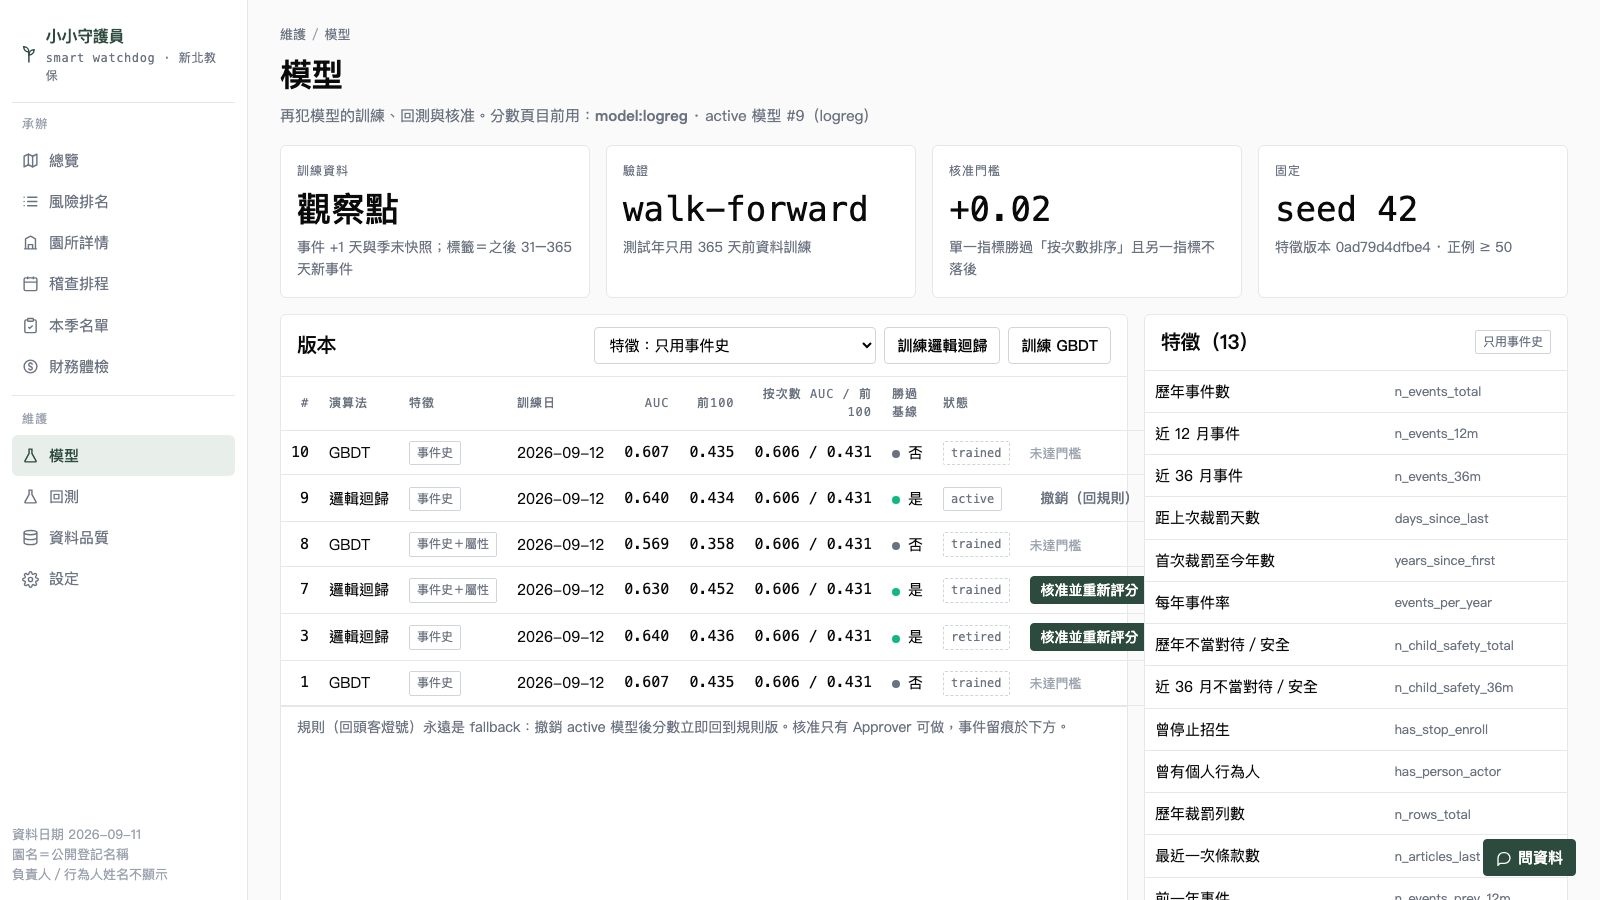
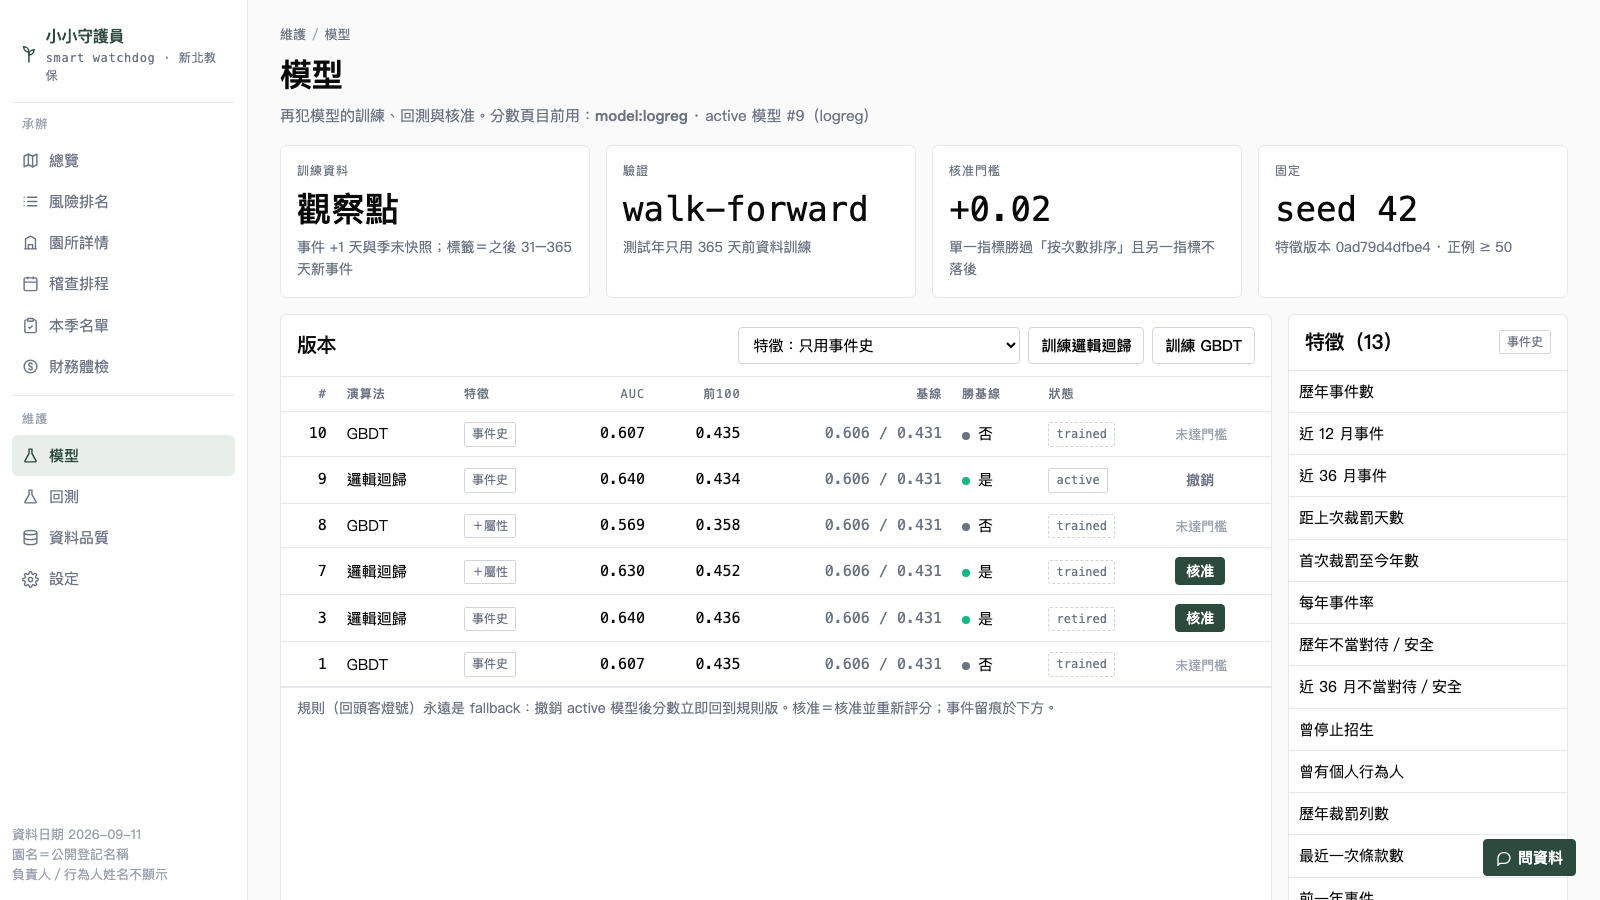
models page: slimmer version table and feature column so actions stay visible
Claude-Session: https://claude.ai/code/session_01VmY1mP5sGNaPQ1rynLjvUR

Changed region(s): [[0.1875, 0.3422, 0.9375, 0.9644], [0.8125, 0.9956, 0.9688, 1.0], [0.7188, 0.9956, 0.7812, 1.0]]

diff --git a/web/index.html b/web/index.html
@@ -373,12 +373,12 @@ S.models = async () => {
   return `
 <div class="crumb">維護<span>/</span>模型</div><h2>模型</h2><p class="sub">再犯模型的訓練、回測與核准。分數頁目前用：<b>${d.current_method === 'rule' ? '規則（回頭客燈號）' : d.current_method}</b>${act ? ` · active 模型 #${act.model_id}（${act.algo}）` : ' · 無 active 模型'}</p>
 <div class="row c4">${kpi('訓練資料', '觀察點', '事件 +1 天與季末快照；標籤＝之後 31–365 天新事件')}${kpi('驗證', 'walk-forward', `測試年只用 ${d.gate.gap_days} 天前資料訓練`)}${kpi('核准門檻', `+${d.gate.margin}`, '單一指標勝過「按次數排序」且另一指標不落後')}${kpi('固定', `seed ${d.gate.seed}`, `特徵版本 ${d.feature_hash} · 正例 ≥ ${d.gate.min_pos}`)}</div>
-<div class="row c21">
+<div class="row" style="grid-template-columns:minmax(0,1fr) 280px">
  <div class="card"><div class="card-h"><h3>版本</h3><div class="tools">${t.running ? `<span class="chip">訓練中：${t.algo} · ${t.feature_set}（${t.started_at.slice(11, 16)} 起）</span>` : `<select class="inp" id="fs"><option value="events">特徵：只用事件史</option><option value="events+attrs">特徵：事件史＋地區／立案別／規模</option></select><button class="btn" onclick="trainModel('logreg')">訓練邏輯迴歸</button><button class="btn" onclick="trainModel('gbdt')">訓練 GBDT</button>`}</div></div>
  ${t.error ? `<div class="errbox">上次訓練失敗：${esc(t.error)}</div>` : ''}${t.result && !t.running ? `<div class="note">上次訓練完成：#${t.result.model_id} ${t.result.algo} AUC ${f3(t.result.auc)} · 前100 ${f3(t.result.top100_cov)} · ${t.result.beats_baseline ? '勝過基線' : '未勝過基線'}</div>` : ''}
- <table><thead><tr><th class="num">#</th><th>演算法</th><th>特徵</th><th>訓練日</th><th class="num">AUC</th><th class="num">前100</th><th class="num">按次數 AUC / 前100</th><th>勝過基線</th><th>狀態</th><th></th></tr></thead><tbody>${d.models.map(m => `<tr><td class="num">${m.model_id}</td><td>${m.algo === 'logreg' ? '邏輯迴歸' : m.algo.toUpperCase()}</td><td><span class="chip">${(m.params.feature_set || 'events') === 'events' ? '事件史' : '事件史＋屬性'}</span></td><td class="mono">${m.trained_at}</td><td class="num">${f3(m.auc)}</td><td class="num">${f3(m.top100_cov)}</td><td class="num">${f3(m.baseline_count_auc)} / ${f3(m.baseline_count_top100)}</td><td>${m.beats_baseline ? '<span class="dot" style="background:var(--ok)"></span>是' : '<span class="dot l"></span>否'}</td><td><span class="chip ${m.status === 'active' ? '' : 'opt'}">${m.status}</span></td><td>${m.status === 'active' ? `<button class="btn ghost" style="padding:3px 10px;font-size:14px" onclick="retireModel(${m.model_id})">撤銷（回規則）</button>` : m.beats_baseline ? `<button class="btn pri" style="padding:3px 10px;font-size:14px" onclick="approveModel(${m.model_id})">核准並重新評分</button>` : '<span style="font-size:13px;color:var(--text-subtle)">未達門檻</span>'}</td></tr>`).join('')}</tbody></table>
- <div class="note">規則（回頭客燈號）永遠是 fallback：撤銷 active 模型後分數立即回到規則版。核准只有 Approver 可做，事件留痕於下方。</div></div>
- <div class="card"><div class="card-h"><h3>特徵（${d.features.length}）</h3><span class="chip">只用事件史</span></div><table><tbody>${d.features.map(f => `<tr><td>${esc(f.zh)}</td><td class="mono" style="font-size:13px;color:var(--text-muted)">${f.key}</td></tr>`).join('')}</tbody></table><div class="note">預設只用事件史，不用負責人、不用園所屬性（立案別、規模、行政區）：避免模型學到「私立園就是高風險」。屬性組（fv2：${d.attr_features.map(f => esc(f.zh)).join('、')}）只供比較，2026-09-12 回測未見改善。</div></div>
+ <div style="overflow-x:auto"><table><thead><tr><th class="num">#</th><th>演算法</th><th>特徵</th><th class="num">AUC</th><th class="num">前100</th><th class="num" title="按次數排序基線的 AUC / 前100">基線</th><th>勝基線</th><th>狀態</th><th></th></tr></thead><tbody>${d.models.map(m => `<tr title="訓練日 ${m.trained_at}"><td class="num">${m.model_id}</td><td>${m.algo === 'logreg' ? '邏輯迴歸' : m.algo.toUpperCase()}</td><td><span class="chip">${(m.params.feature_set || 'events') === 'events' ? '事件史' : '＋屬性'}</span></td><td class="num">${f3(m.auc)}</td><td class="num">${f3(m.top100_cov)}</td><td class="num" style="color:var(--text-muted)">${f3(m.baseline_count_auc)} / ${f3(m.baseline_count_top100)}</td><td>${m.beats_baseline ? '<span class="dot" style="background:var(--ok)"></span>是' : '<span class="dot l"></span>否'}</td><td><span class="chip ${m.status === 'active' ? '' : 'opt'}">${m.status}</span></td><td style="white-space:nowrap">${m.status === 'active' ? `<button class="btn ghost" style="padding:3px 10px;font-size:14px" onclick="retireModel(${m.model_id})">撤銷</button>` : m.beats_baseline ? `<button class="btn pri" style="padding:3px 10px;font-size:14px" onclick="approveModel(${m.model_id})">核准</button>` : '<span style="font-size:13px;color:var(--text-subtle)">未達門檻</span>'}</td></tr>`).join('')}</tbody></table></div>
+ <div class="note">規則（回頭客燈號）永遠是 fallback：撤銷 active 模型後分數立即回到規則版。核准＝核准並重新評分；事件留痕於下方。</div></div>
+ <div class="card"><div class="card-h"><h3>特徵（${d.features.length}）</h3><span class="chip">事件史</span></div><table><tbody>${d.features.map(f => `<tr><td title="${f.key}">${esc(f.zh)}</td></tr>`).join('')}</tbody></table><div class="note">預設只用事件史，不用負責人、不用園所屬性（立案別、規模、行政區）：避免模型學到「私立園就是高風險」。屬性組（fv2：${d.attr_features.map(f => esc(f.zh)).join('、')}）只供比較，2026-09-12 回測未見改善。</div></div>
 </div>
 ${d.models.map(m => `<div class="card" style="margin-bottom:16px"><div class="card-h"><h3>#${m.model_id} ${m.algo === 'logreg' ? '邏輯迴歸' : m.algo.toUpperCase()} 回測</h3><span class="chip">${m.notes || ''}</span></div><div class="card-b">${cmBlock(m)}${(() => { const yrs = [...new Set(m.backtests.map(b => b.obs_year))]; const get = (who, k) => yrs.map(y => { const r = m.backtests.find(b => b.obs_year === y && (b.baseline || 'model') === who); return r ? r[k] : 0 }); return yrs.length ? multiLine([{ name: '模型', v: get('model', 'auc') }, { name: '規則', v: get('rule', 'auc') }, { name: '按次數', v: get('count', 'auc') }, { name: '按近期', v: get('recency', 'auc') }], yrs.map(String), 1120, 200) : '<span style="color:var(--text-muted)">無回測</span>' })()}<div style="font-size:14px;color:var(--text-muted)">AUC 逐年；平均 模型 ${f3(mean(m, 'model', 'auc'))} · 規則 ${f3(mean(m, 'rule', 'auc'))} · 按次數 ${f3(mean(m, 'count', 'auc'))}；前 100 覆蓋 模型 ${f3(mean(m, 'model', 'top100'))} · 規則 ${f3(mean(m, 'rule', 'top100'))}。</div></div></div>`).join('')}
 <div class="card"><div class="card-h"><h3>事件留痕</h3></div><table><thead><tr><th>時間</th><th class="num">模型</th><th>狀態</th><th>誰</th><th>原因</th></tr></thead><tbody>${d.events.map(e => `<tr><td class="mono">${e.at}</td><td class="num">${e.model_id}</td><td>${e.from_status || '—'} → ${e.to_status}</td><td>${esc(e.actor)}</td><td style="font-size:14px;color:var(--text-muted)">${esc(e.reason || '')}</td></tr>`).join('')}</tbody></table></div>`;
